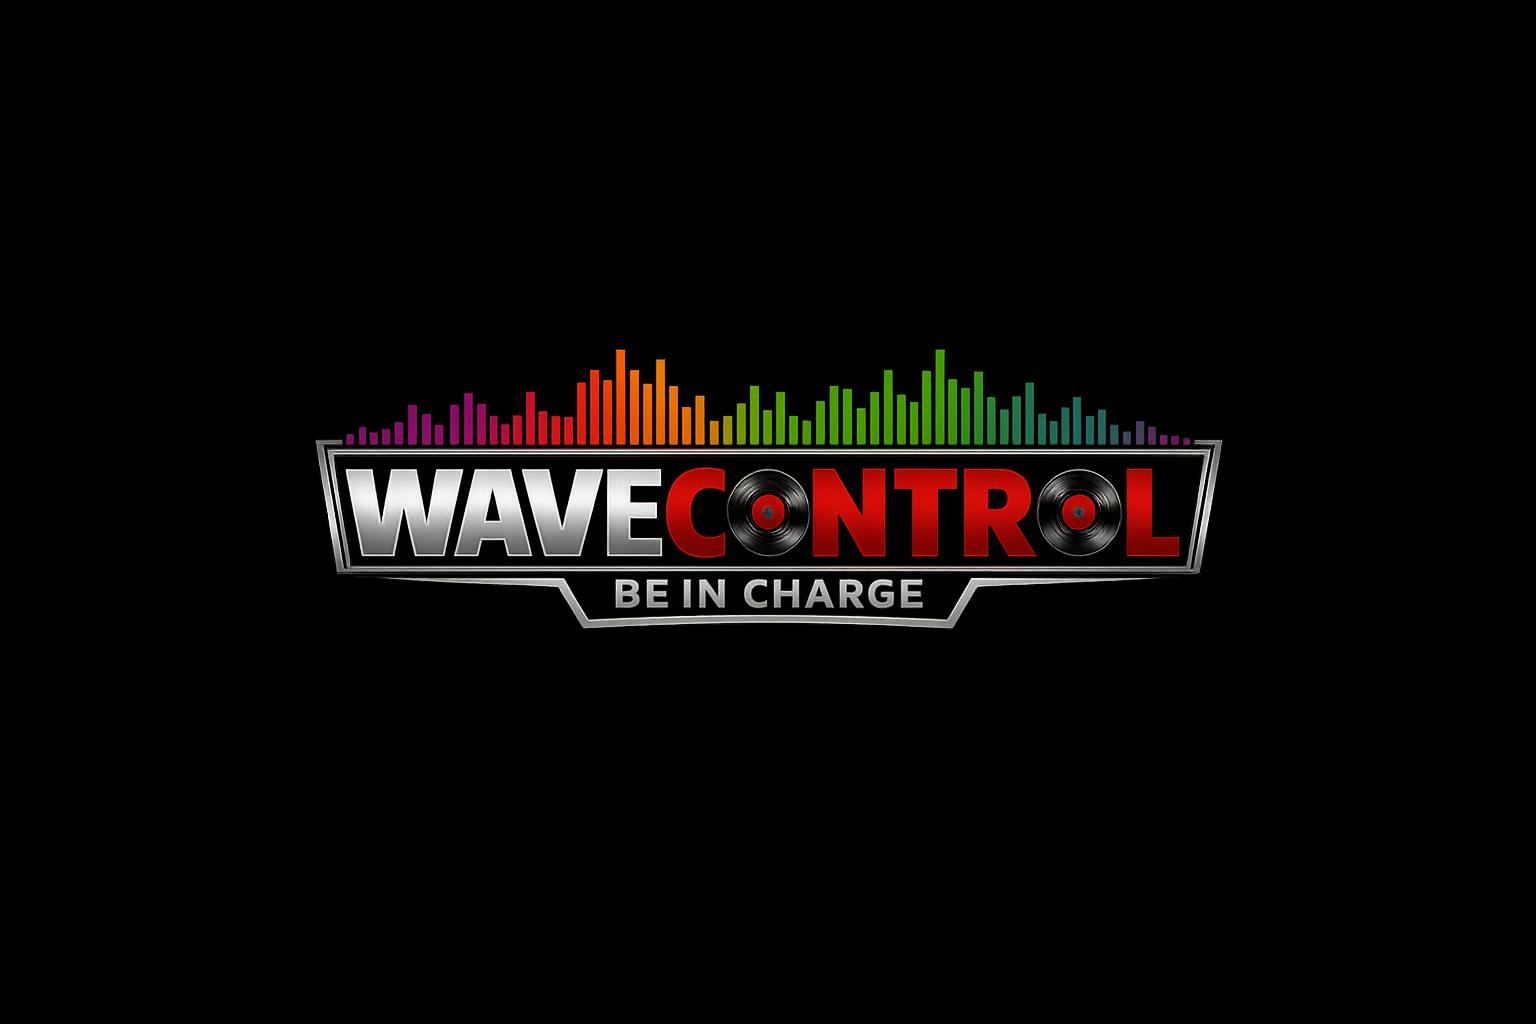
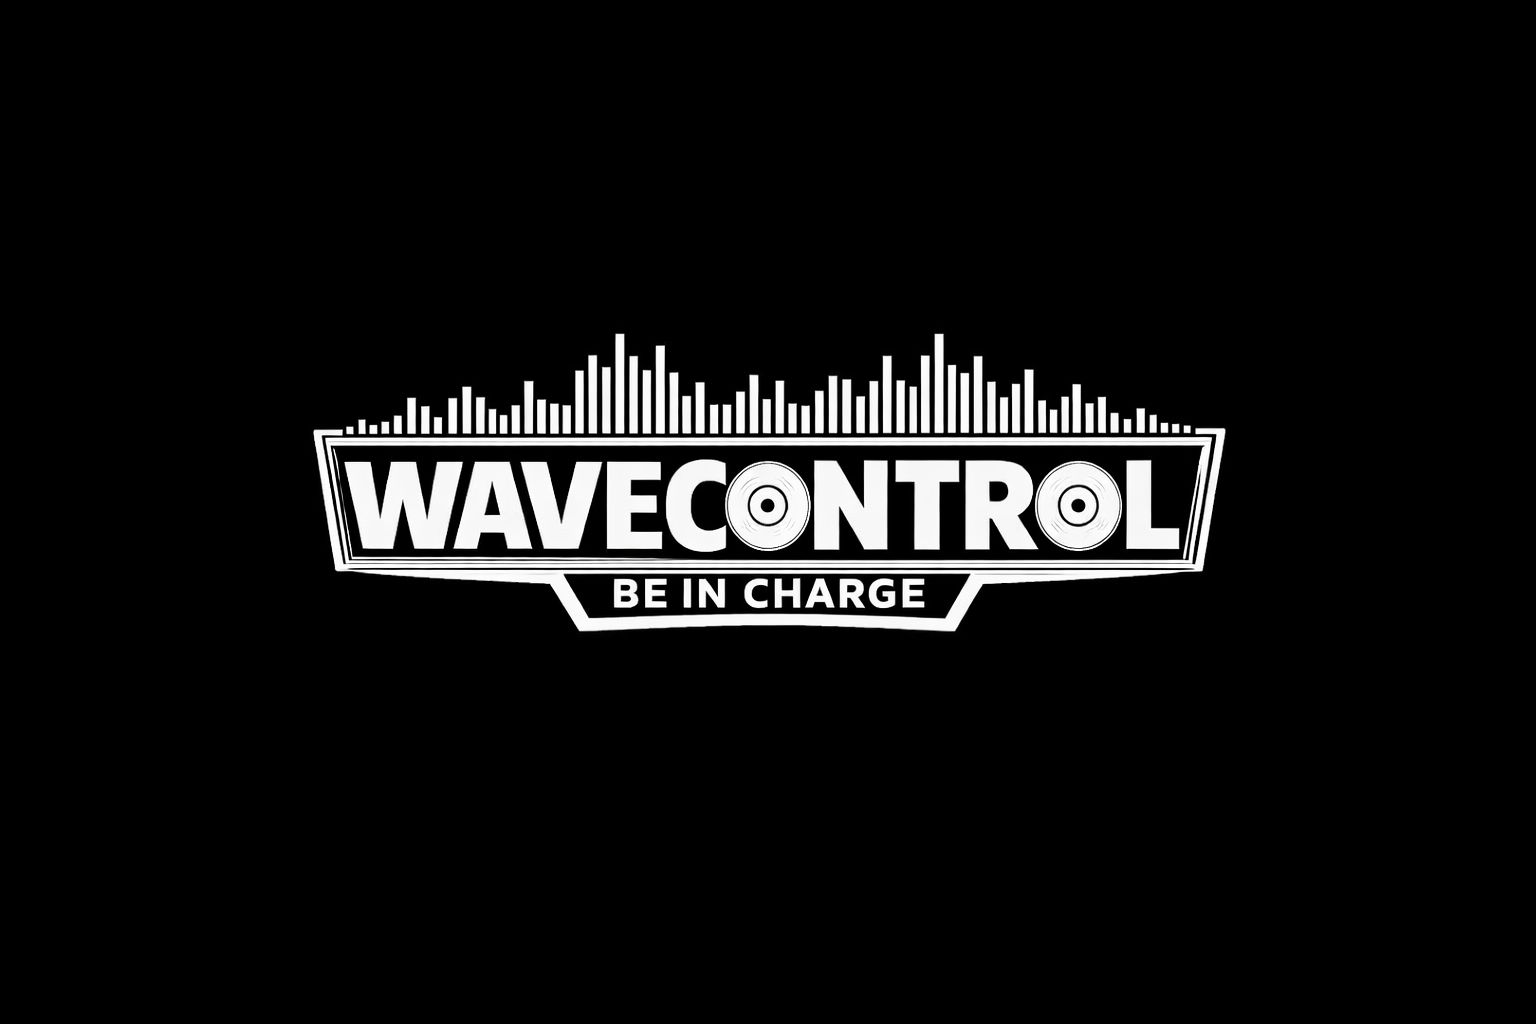
select

Changed region(s): [[0.1875, 0.3125, 0.8125, 0.625]]

diff --git a/public/jukebox.html b/public/jukebox.html
@@ -292,11 +292,18 @@
     .meta .title{ font-size:16px; }
     .meta .artist{ font-size:12px; }
   }
+.logo-banner {
+  border-top: 2px solid var(--accent);
+  border-bottom: 2px solid var(--accent);
+}
 </style>
 
 </head>
 <body>
-  <header>🎵 Pub Jukebox — Playback</header>
+  <header>
+  <img src="/pictures/wavecontrol.jpeg" alt="WaveControl Logo" class="logo-banner" />
+</header>
+
 
 <main>
   <!-- Left: Now Playing visual (up to 1080px block) -->
